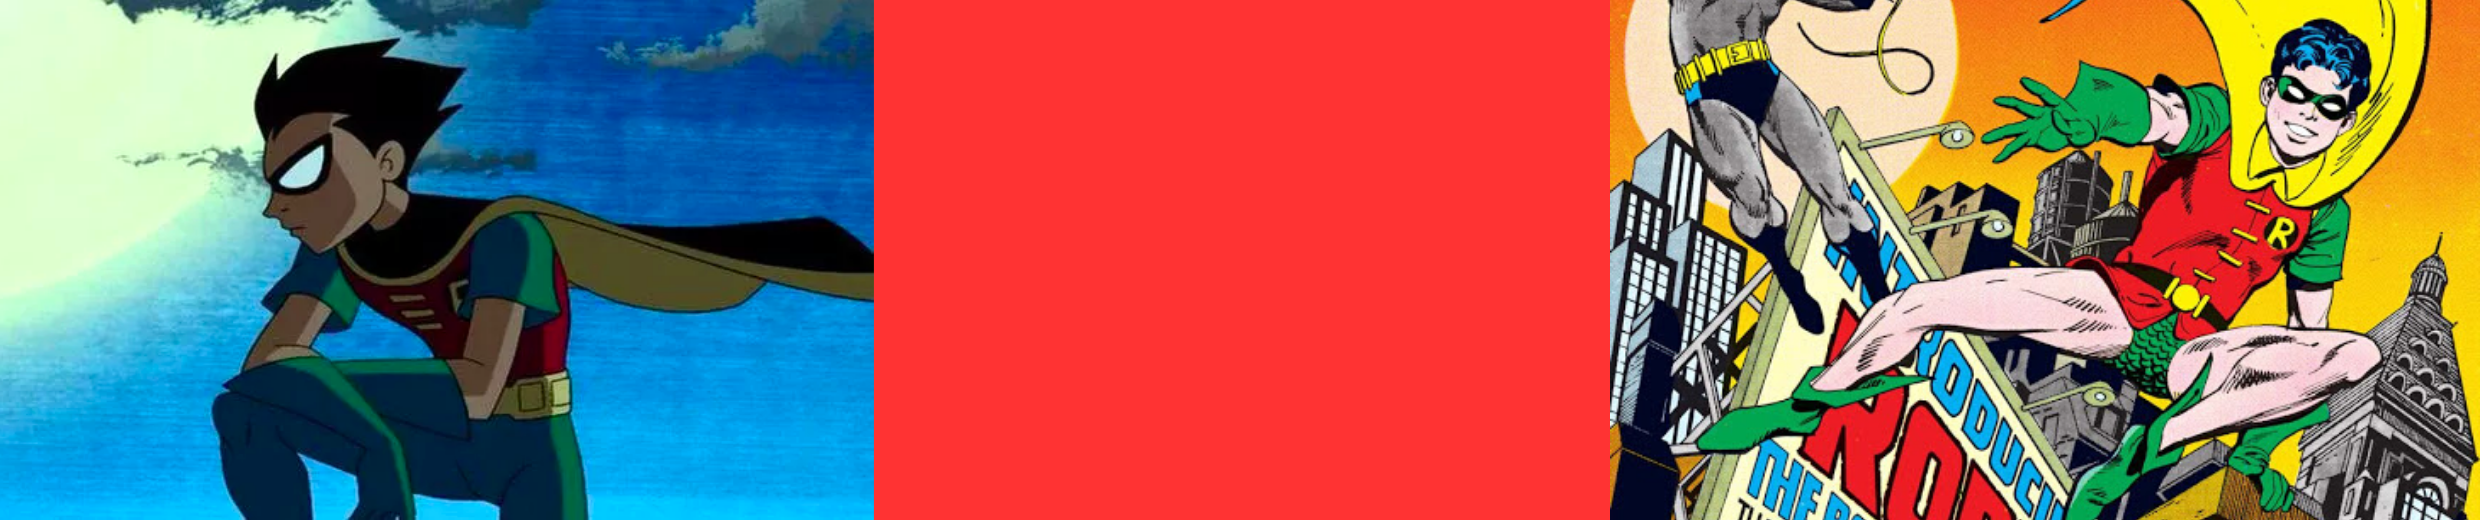
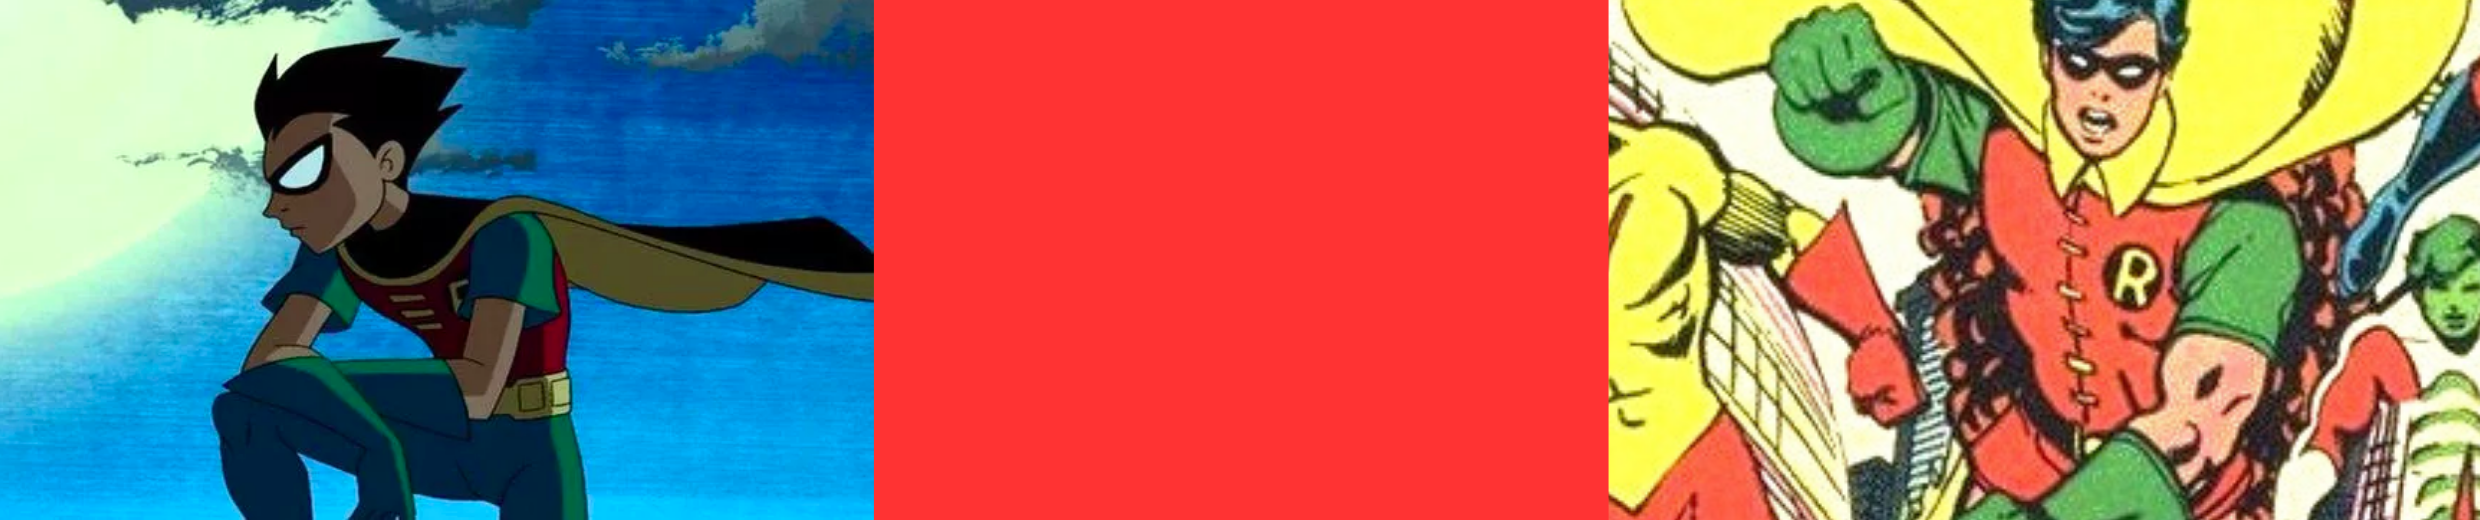
changing pic of comic robin

diff --git a/web/html/about.html b/web/html/about.html
@@ -57,7 +57,7 @@
             </section>
             <section class="charsContain">
                 <div class="imageContainer" id="RobinComic">
-                    <a href="https://en.wikipedia.org/wiki/Robin_(character)"><img src="img/robinComic.JPG" alt="Robin in the comic" style="width:100%"/></a>
+                    <a href="https://en.wikipedia.org/wiki/Robin_(character)"><img src="img/robinComic.png" alt="Robin in the comic" style="width:100%"/></a>
                     Robin (Dick Grayson)- Comic
                 </div>
                 <div class="imageContainer" id="CyborgComic">
